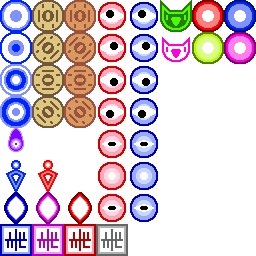
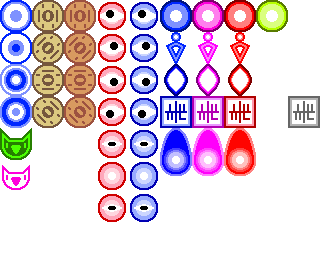
Sprite reorganization (has artefacts!!!)

diff --git a/code/game/Sprite.js b/code/game/Sprite.js
@@ -20,61 +20,13 @@ var SPRITE = {
             frames: 4,
             interval: 0.2
         },
-        cometPurple: {
+        catGreen: {
             x: 0,
-            y: 4,
-            hitbox: 0.5,
-            rotate: true
+            y: 4
         },
-        kunaiBlue: {
+        catMagenta: {
             x: 0,
-            y: 5,
-            hitbox: 0.4,
-            rotate: true
-        },
-        kunaiRed: {
-            x: 1,
-            y: 5,
-            hitbox: 0.4,
-            rotate: true
-        },
-        strikeBlue: {
-            x: 0,
-            y: 6,
-            hitbox: 0.75,
-            rotate: true
-        },
-        strikePurple: {
-            x: 1,
-            y: 6,
-            hitbox: 0.75,
-            rotate: true
-        },
-        strikeRed: {
-            x: 2,
-            y: 6,
-            hitbox: 0.75,
-            rotate: true
-        },
-        sealBlue: {
-            x: 0,
-            y: 7,
-            rotate: true
-        },
-        sealPurple: {
-            x: 1,
-            y: 7,
-            rotate: true
-        },
-        sealRed: {
-            x: 2,
-            y: 7,
-            rotate: true
-        },
-        sealGray: {
-            x: 3,
-            y: 7,
-            rotate: true
+            y: 5
         },
         coin: {
             x: 1,
@@ -100,21 +52,95 @@ var SPRITE = {
             frames: 7,
             interval: 0.15
         },
-        catGreen: {
+        staticBlue: {
             x: 5,
             y: 0
         },
-        catMagenta: {
-            x: 5,
-            y: 1
-        },
-        staticRed: {
+        staticPurple: {
             x: 6,
             y: 0
         },
-        staticBlue: {
+        staticRed: {
             x: 7,
             y: 0
+        },
+        staticLime: {
+            x: 8,
+            y: 0
+        },
+        kunaiBlue: {
+            x: 5,
+            y: 1,
+            hitbox: 0.4,
+            rotate: true
+        },
+        kunaiPurple: {
+            x: 6,
+            y: 1,
+            hitbox: 0.4,
+            rotate: true
+        },
+        kunaiRed: {
+            x: 7,
+            y: 1,
+            hitbox: 0.4,
+            rotate: true
+        },
+        strikeBlue: {
+            x: 5,
+            y: 2,
+            hitbox: 0.75,
+            rotate: true
+        },
+        strikePurple: {
+            x: 6,
+            y: 2,
+            hitbox: 0.75,
+            rotate: true
+        },
+        strikeRed: {
+            x: 7,
+            y: 2,
+            hitbox: 0.75,
+            rotate: true
+        },
+        sealBlue: {
+            x: 5,
+            y: 3,
+            rotate: true
+        },
+        sealPurple: {
+            x: 6,
+            y: 3,
+            rotate: true
+        },
+        sealRed: {
+            x: 7,
+            y: 3,
+            rotate: true
+        },
+        sealGray: {
+            x: 9,
+            y: 3,
+            rotate: true
+        },
+        cometBlue: {
+            x: 5,
+            y: 4,
+            height: 2,
+            rotate: true
+        },
+        cometPurple: {
+            x: 6,
+            y: 4,
+            height: 2,
+            rotate: true
+        },
+        cometRed: {
+            x: 7,
+            y: 4,
+            height: 2,
+            rotate: true
         },
         nuclear: {
             file: "nuclear.png",
